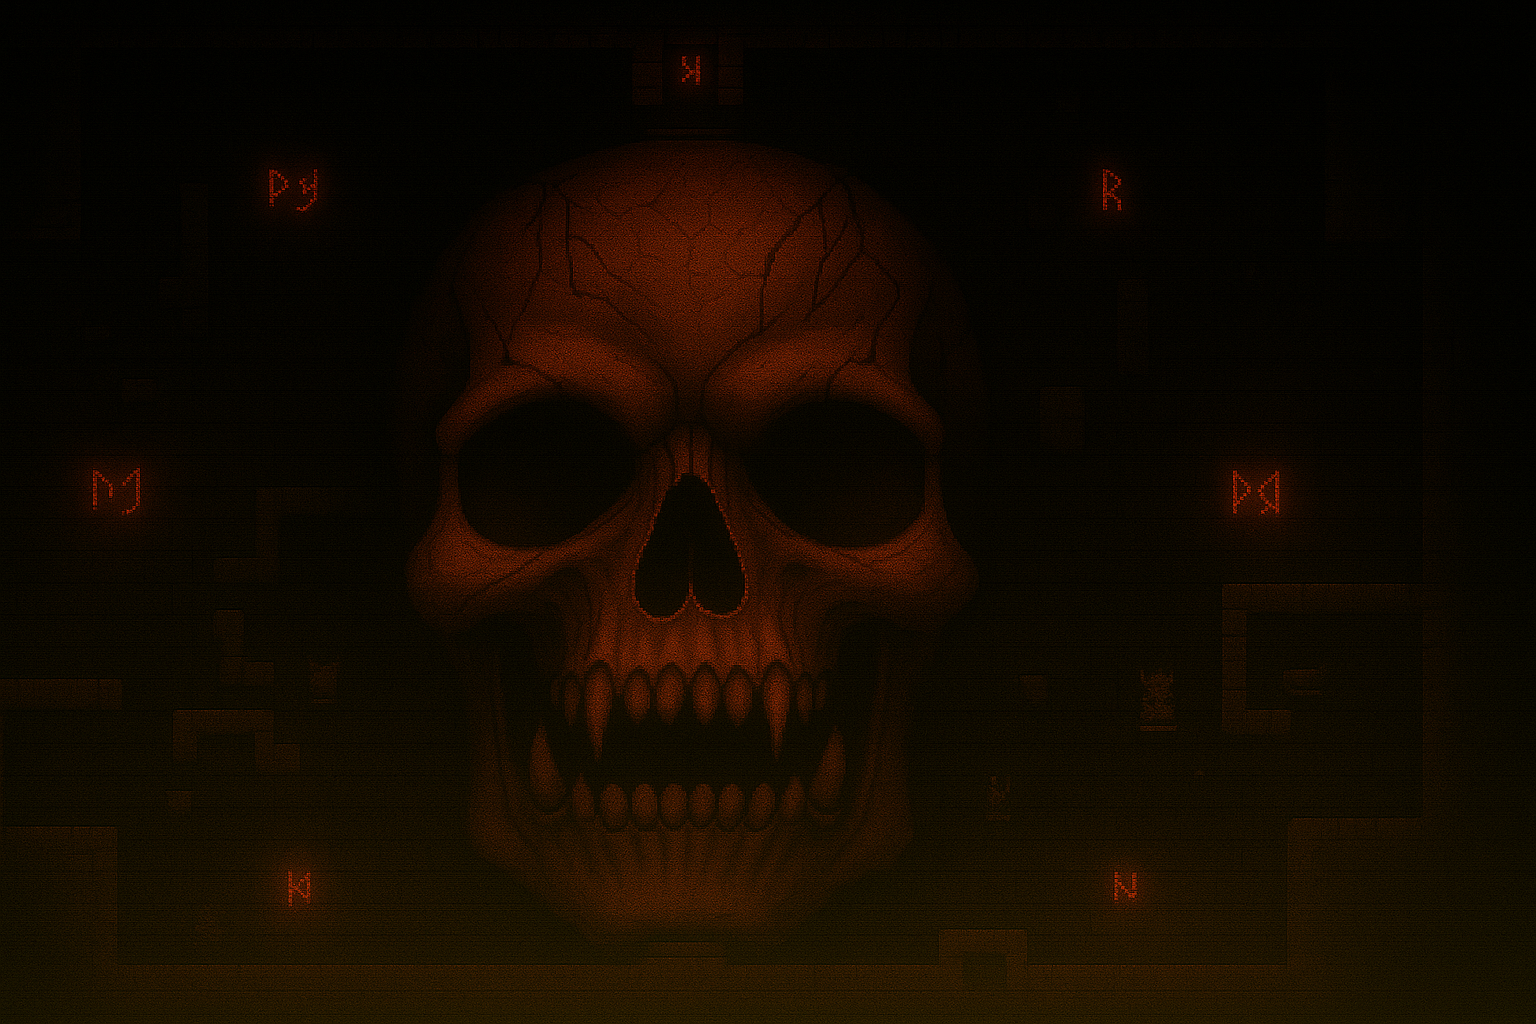
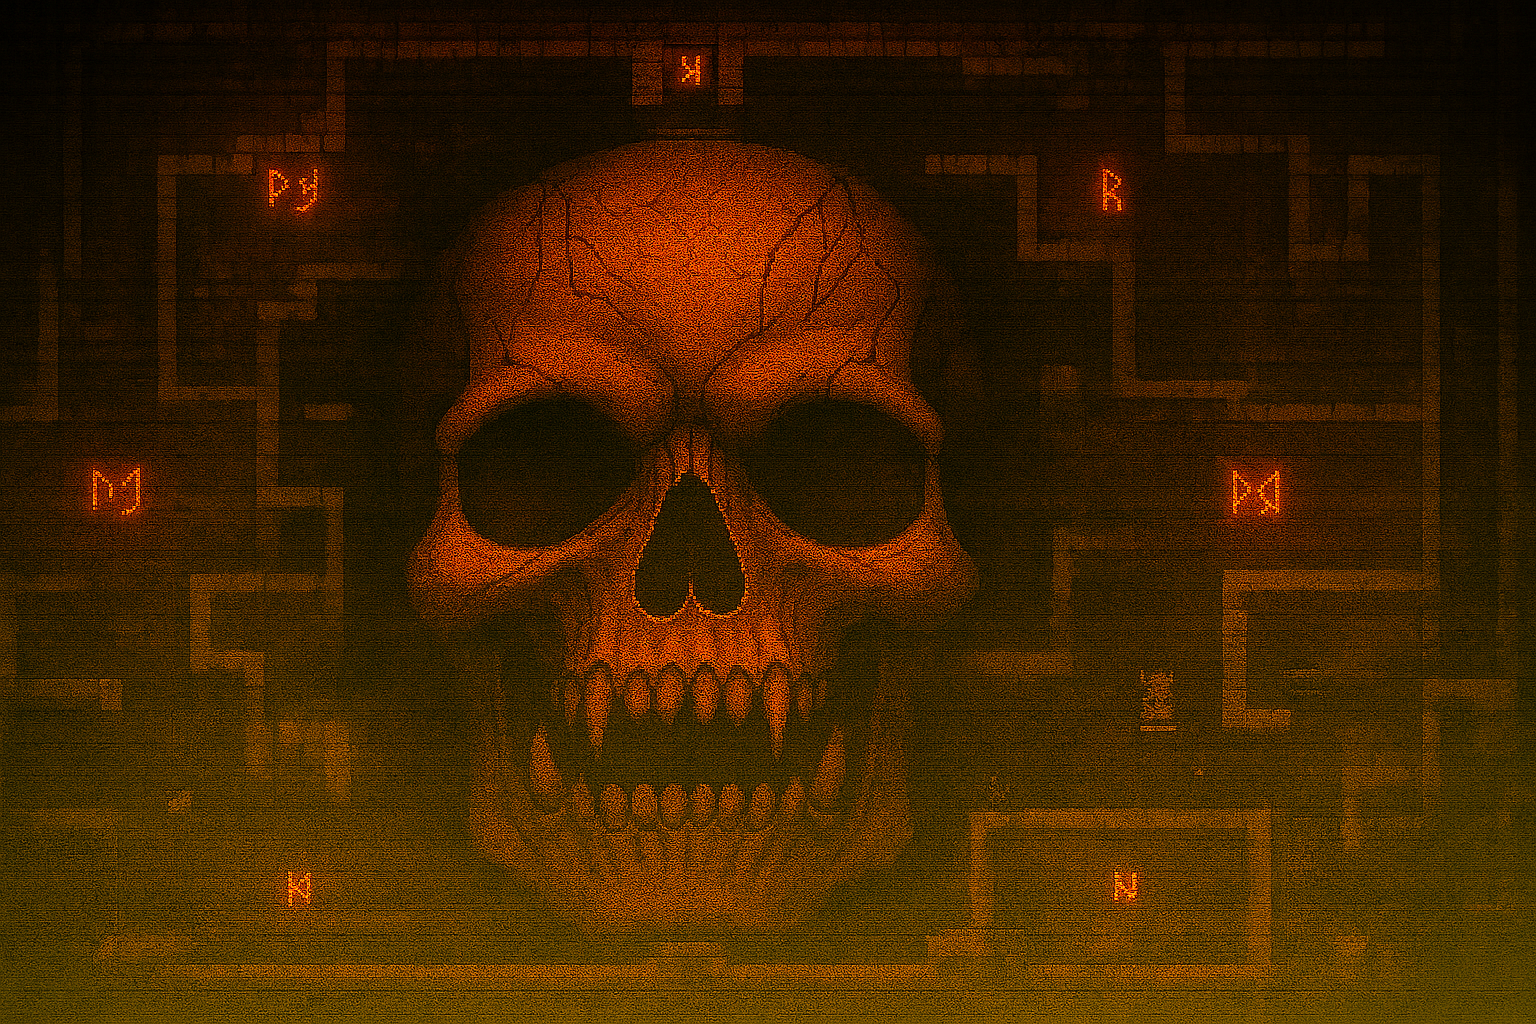
changebg + fixplayer

diff --git a/src/Player.java b/src/Player.java
@@ -177,27 +177,27 @@ public class Player {
             return;
         }
 
-        // --- เพิ่มบรรทัดนี้ ---
-        double spriteScale = 12; // ปรับขนาด sprite ให้ใหญ่ขึ้น 1.8 เท่า (สามารถปรับได้)
+        // ปรับขนาด sprite ที่แสดงผล (เช่น 1.5 เท่า)
+        double spriteScale = 12; // ปรับค่านี้เพื่อเพิ่ม/ลดขนาด sprite
+        double scaleX = spriteScale * size / frame.getWidth();
+        double scaleY = spriteScale * size / frame.getHeight();
 
+        // สร้าง AffineTransform เพื่อจัดตำแหน่ง sprite ให้อยู่กลาง object player
         AffineTransform transform = new AffineTransform();
-
-        // คำนวณอัตราส่วนการขยาย (hitbox = ขนาดจริงในเกม)
-        double scaleX = (double) size * spriteScale / frame.getWidth();
-        double scaleY = (double) size * spriteScale / frame.getHeight();
-
-        // เพื่อให้ sprite อยู่ตรงกลาง hitbox ต้องเลื่อนพิกัดก่อนวาด
-        int offsetX = (int) ((frame.getWidth() * scaleX - size) / 2);
-        int offsetY = (int) ((frame.getHeight() * scaleY - size) / 2);
+        int centerX = x + size / 2;
+        int centerY = y + size / 2;
 
         if (facingLeft) {
-            transform.translate(x + size - offsetX, y - offsetY);
-            transform.scale(-scaleX, scaleY);
+            // กลับ sprite ทางซ้าย และจัดให้อยู่กลาง object player
+            transform.translate(centerX, centerY);
+            transform.scale(-scaleX, scaleY); // scaleX ติดลบเพื่อกลับด้าน
+            transform.translate(-frame.getWidth() / 2, -frame.getHeight() / 2);
         } else {
-            transform.translate(x - offsetX, y - offsetY);
+            // sprite ปกติและอยู่กลาง object player
+            transform.translate(centerX, centerY);
             transform.scale(scaleX, scaleY);
+            transform.translate(-frame.getWidth() / 2, -frame.getHeight() / 2);
         }
-
         g2d.drawImage(frame, transform, null);
     }
 
